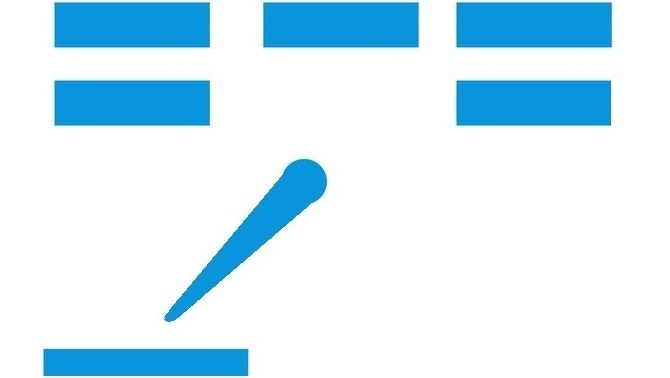
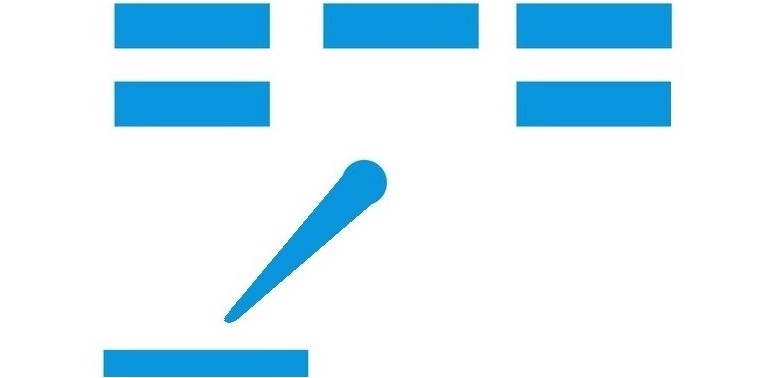
Adjusted work images to better fit screen

diff --git a/assets/css/style.css b/assets/css/style.css
@@ -130,7 +130,7 @@ header nav img{
 #morcal {
     color: var(--primary-color);
     flex: 1 100%;
-    height: 300px;
+    height: 350px;
     border-top: 3px solid var(--primary-color);
     border-bottom: 3px solid var(--primary-color);
     background-size: cover;
@@ -143,7 +143,7 @@ header nav img{
 #runbuddy {
     color: var(--primary-color);
     flex:1 50%;
-    height: 300px;
+    height: 350px;
     border-top: 3px solid var(--primary-color);
     border-bottom: 3px solid var(--primary-color);
     background-size: cover;
@@ -155,8 +155,8 @@ header nav img{
                                     /*breakout---------*/
 #breakout {
     color: var(--primary-color);
-    flex:1 50%;
-    height: 300px;
+    flex: 1 50%;
+    height: 350px;
     border-top: 3px solid var(--primary-color);
     border-bottom: 3px solid var(--primary-color);
     background-size: cover;
@@ -164,11 +164,4 @@ header nav img{
 }
 #breakout:hover {
     font-weight: bold;
-}
-/*BEGIN FOOTER SECTION*/
-footer {
-    font-size: 30px;
-    border: 0.2vw solid var(--primary-color);
-    text-align: center;
-    margin-left:13vw;
 }
